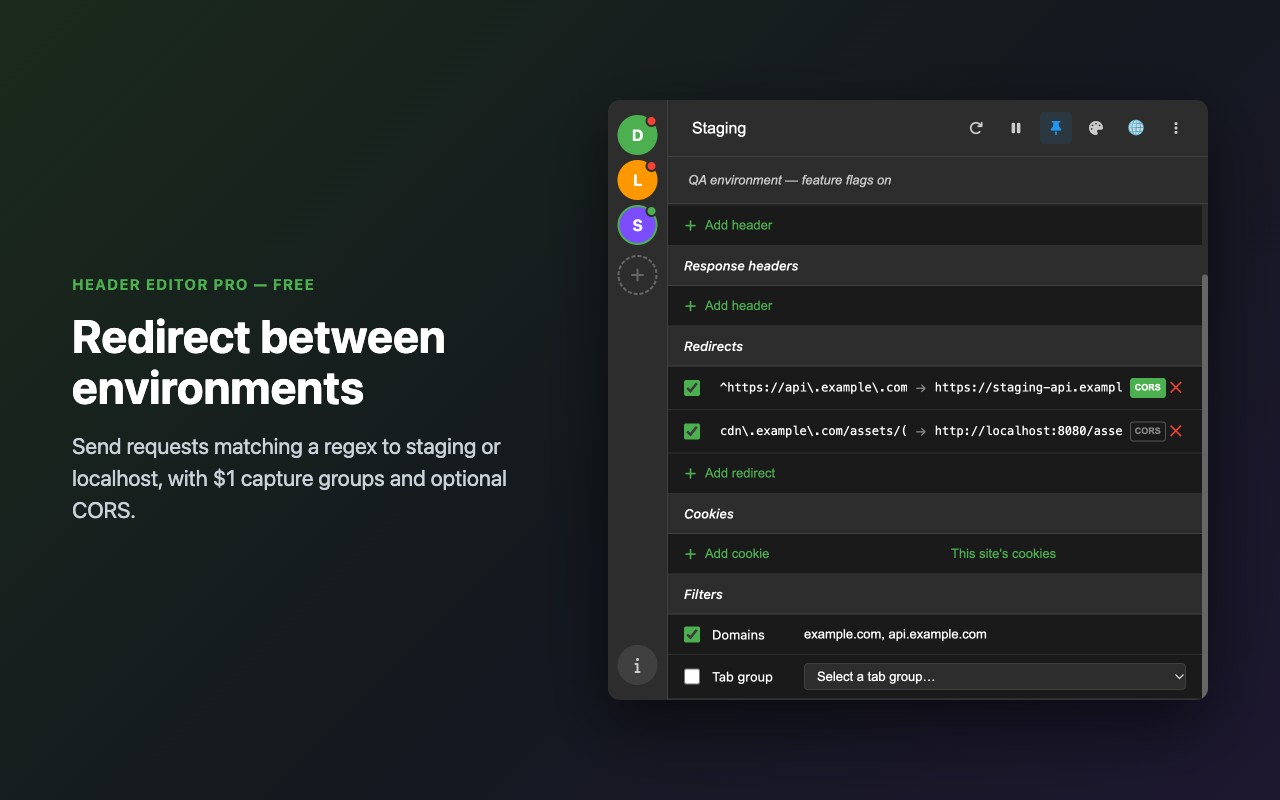
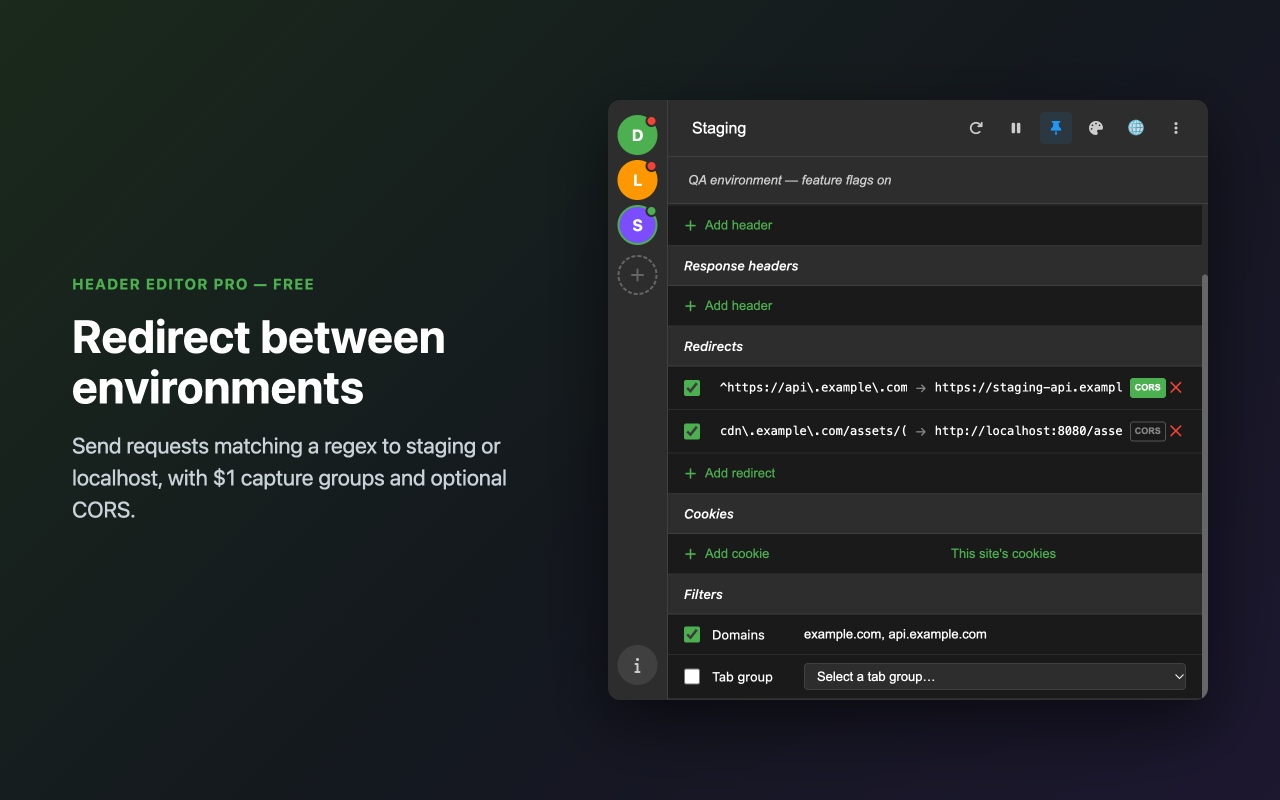
chore: add Chrome promo tiles and sharpen store images
npm run store:screenshots now also renders the Chrome Web Store promo
tiles: small (440×280, logo + name, no UI since it would be unreadable)
and marquee (1400×560, caption + the real popup), in the same look as the
screenshots (templates in scripts/playground/promo-tiles.mjs).

Every image is now rendered at 2× and scaled down to the exact store size
with high-quality resampling, then saved as a near-lossless JPEG; the 1×
render at quality 90 gave soft text. The tiles use the 1024px logo from
raw-assets instead of the 128px icon.

diff --git a/CLAUDE.md b/CLAUDE.md
@@ -42,7 +42,7 @@ Header Editor Pro - Free is a Chrome/Firefox extension for HTTP header modificat
 - `npm run dev` - Development with watch mode
 - `npm run build` - Production build to `dist/`
 - `npm run package` - Generate versioned ZIPs
-- `npm run store:screenshots` - Regenerates the 1280×800 store images in `screenshots/store/` from the real popup with demo data (`scripts/playground/screenshots.mjs`); fails if the popup renders wider than 600px
+- `npm run store:screenshots` - Regenerates the 1280×800 store screenshots and the Chrome promo tiles (440×280, 1400×560) in `screenshots/store/` from the real popup with demo data (`scripts/playground/screenshots.mjs`); fails if the popup renders wider than 600px
 - `npm run playground` - Chrome for Testing with the extension loaded, a seeded profile and a local demo page (`-- --check` clicks through the demos and exits). See `docs/development.md`
 
 **Playground = the end-to-end check:** every user-visible feature gets a section in `scripts/playground/page.html` (plus seed data in `run.mjs` and a step in `runChecks`), and `npm run playground -- --check` must pass before opening a PR. Unit tests mock `chrome.*`; this is the only check that runs the real DNR engine.

diff --git a/docs/development.md b/docs/development.md
@@ -60,7 +60,10 @@ npm run store:screenshots
 
 Renders the popup with realistic demo data, one scene per feature, and places
 each on a 1280×800 canvas with a caption: `screenshots/store/*.jpg`, the size
-both stores accept. Run it before a release that changes the UI and upload the
+both stores accept. It also renders the Chrome Web Store promo tiles,
+`promo-small.jpg` (440×280) and `promo-marquee.jpg` (1400×560). Everything is
+rendered at 2× and scaled down with high-quality resampling, so text stays
+sharp; JPEG because the stores reject alpha. Run it before a release that changes the UI and upload the
 images by hand. It fails if the popup renders wider than its 600px.
 
 ## Build
